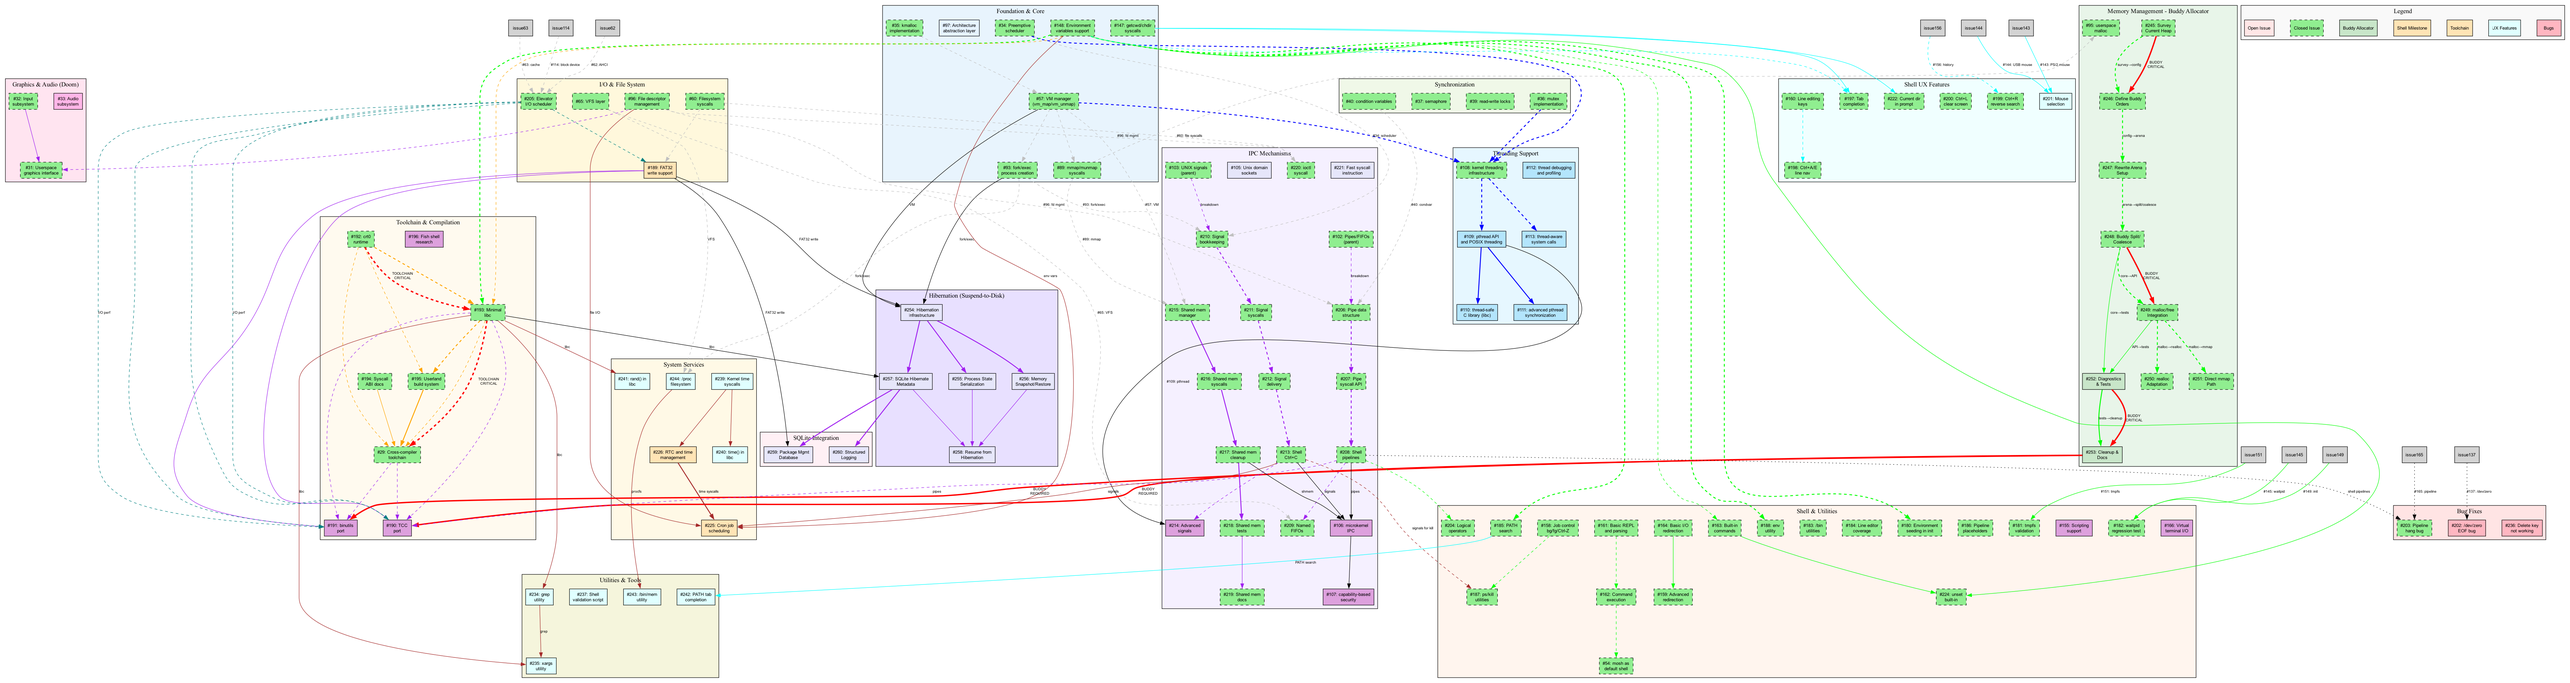
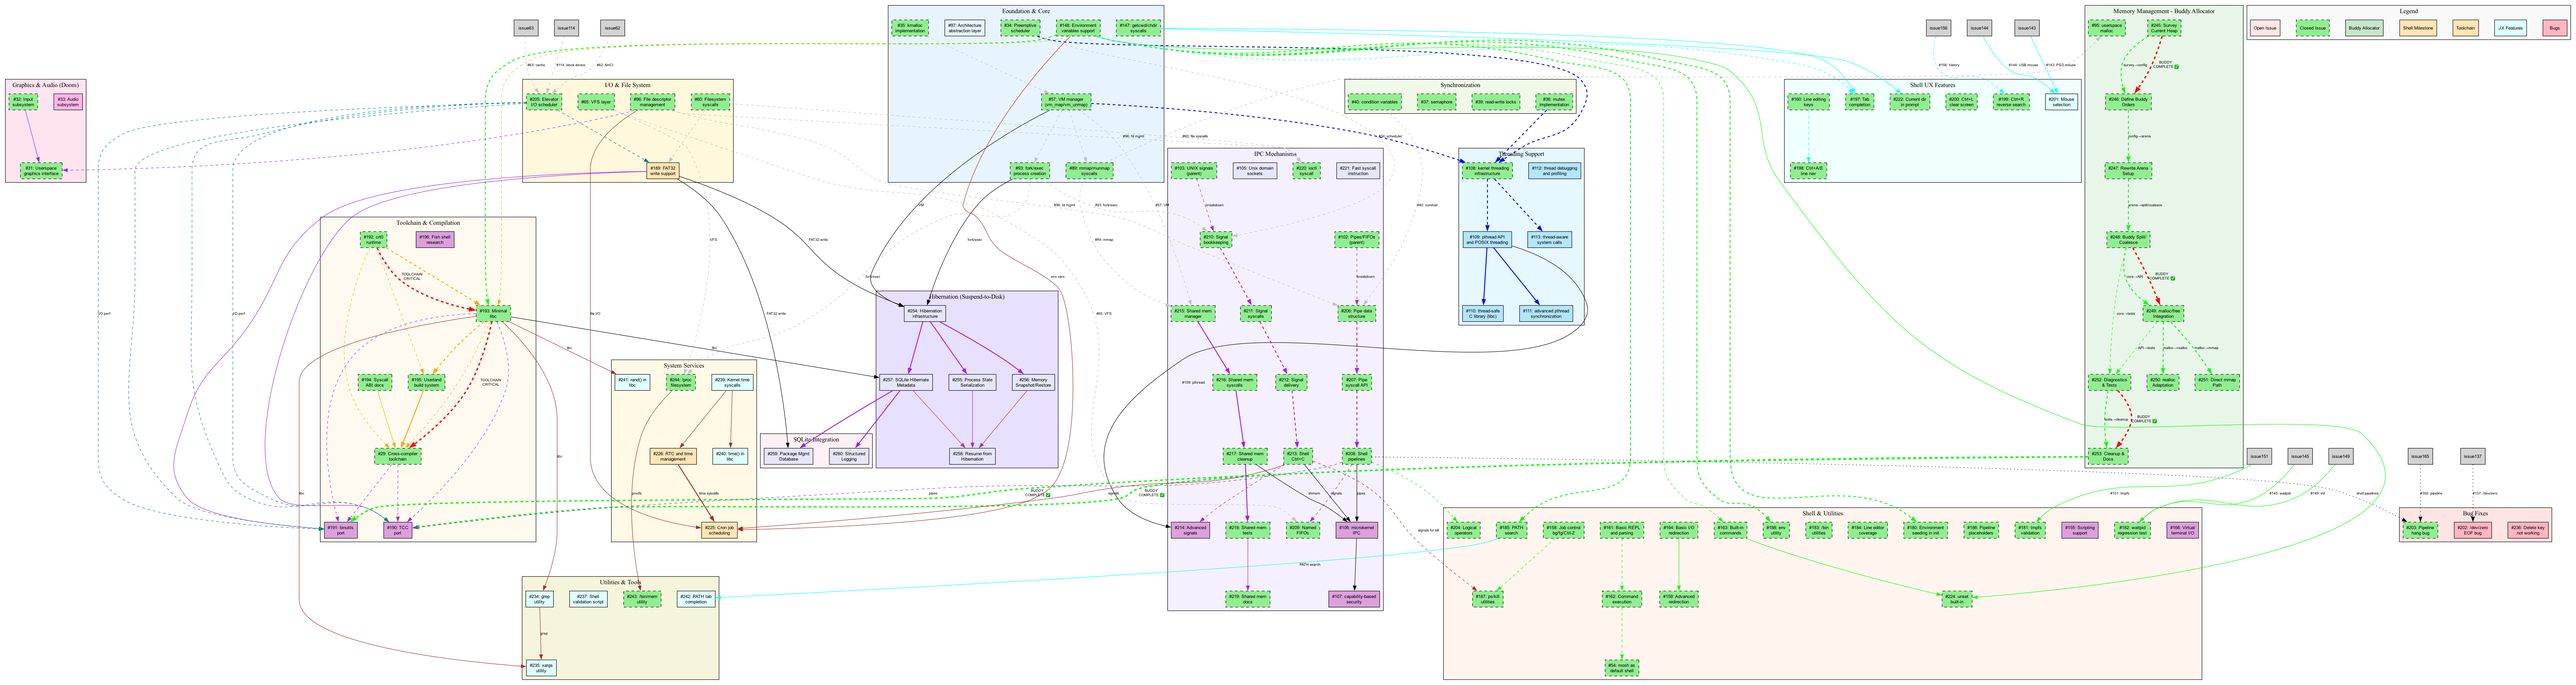
Updated the documentation

diff --git a/README.md b/README.md
@@ -40,14 +40,14 @@ MeniOS has made significant progress with core kernel functionality now solidly 
 - **User Demo**: Kernel launches Ring 3 thread with ELF loader exercising full syscall path
 - **Memory Protection**: Kernel/user separation with per-process page tables
 
-### 🚧 **Next Major Milestones**
-With the shell shipped in v0.1.0, the focus shifts to memory management and toolchain infrastructure:
+### 🎉 **Next Major Milestones**
+With the shell shipped in v0.1.0 and Buddy Allocator complete, the focus shifts to native compilation and advanced OS capabilities:
 
-1. **Buddy Allocator Milestone** (NEW! 🔨) – Migrate userland memory allocator from first-fit to buddy allocator system (#245-#253). This provides the robust memory management foundation required by both GCC and Doom milestones. The buddy system offers power-of-2 allocation, fast split/coalesce operations, and bounded fragmentation—critical for complex applications like compilers and game engines.
+1. **GCC Toolchain Milestone** (UNBLOCKED! 🚀) – The Buddy Allocator foundation is now complete (#245-#253 ✅)! Ready to implement TCC port (#190) and binutils (#191). Only blocked by #189 (FAT32 write support) for native compilation output.
 
-2. **GCC Toolchain Milestone** – Complete the toolchain foundation with TCC port (#190) and binutils (#191). Both depend on Buddy Allocator completion for efficient memory handling during compilation and linking.
+2. **FAT32 Write Support** (CRITICAL PATH 📁) – Issue #189 is now the critical blocker for native compilation. Enables TCC/binutils to write compiled binaries to disk.
 
-3. **Doom Capabilities** – With robust memory management and threading support, unlock the final pieces needed to run Doom: audio subsystem (#33), advanced IPC (#105-#107), and FAT32 write support (#189).
+3. **Doom Capabilities** – With robust memory management now complete (Buddy Allocator ✅) and threading support (#108 ✅), ready to unlock the final pieces: pthread API (#109), audio subsystem (#33), advanced IPC (#105-#107), and fast syscalls (#221).
 
 ### 🆕 **Threading Support Added**
 A complete threading roadmap has been designed with 6 new issues:
@@ -140,7 +140,7 @@ Expect the log to show the `[user_demo]` messages on screen and in `com1.log`, c
 
 ### 🚧 **In Progress & Planned**
 
-#### **Critical Path: Memory Management - Buddy Allocator (Issues #245-#253)** 🔨 IN PROGRESS!
+#### **Critical Path: Memory Management - Buddy Allocator (Issues #245-#253)** 🎉 COMPLETE!
 - [x] **#245**: Survey Current Heap Implementation ✅ COMPLETE!
 - [x] **#246**: Define Buddy Allocator Orders and Configuration ✅ COMPLETE!
   - Orders 7–27 (128 B–128 MiB), 128 MiB arenas, 21 freelists
@@ -154,19 +154,21 @@ Expect the log to show the `[user_demo]` messages on screen and in `com1.log`, c
   - In-place expansion via buddy merging, proper splitting on shrink
 - [x] **#251**: Update Direct mmap Path for Large Allocations ✅ COMPLETE!
   - Handles large allocations and unusual alignments (posix_memalign, etc.)
-- [ ] **#252**: Add Buddy Allocator Diagnostics and Tests
-- [ ] **#253**: Cleanup and Document Buddy Allocator Migration
+- [x] **#252**: Add Buddy Allocator Diagnostics and Tests ✅ COMPLETE!
+  - Comprehensive regression tests and `menios_malloc_stats()` diagnostics
+- [x] **#253**: Cleanup and Document Buddy Allocator Migration ✅ COMPLETE!
+  - Legacy first-fit code removed, buddy design fully documented
 
-**Status**: 7/9 complete (77.8%) - Core allocator complete, testing and cleanup remain!
+**Status**: 9/9 complete (100%) 🎉 - MILESTONE COMPLETE! Unblocks GCC and Doom milestones!
 
-#### **Toolchain (Issues #29, #192-#195)** 🚀 Core Complete, Blocked on Buddy!
+#### **Toolchain (Issues #29, #192-#195)** 🚀 Core Complete, Ready for Native Compilation!
 - [x] **#192**: crt0 runtime startup code ✅ COMPLETE!
 - [x] **#193**: Minimal userland libc (syscalls, strings, memory, stdio) ✅ COMPLETE!
 - [x] **#194**: Syscall ABI documentation ✅ COMPLETE!
 - [x] **#195**: Userland build system ✅ COMPLETE!
 - [x] **#29**: Cross-compiler toolchain integration ✅ COMPLETE!
-- [ ] **#190**: TCC port (blocked on Buddy Allocator completion)
-- [ ] **#191**: binutils port (blocked on Buddy Allocator completion)
+- [ ] **#190**: TCC port (Buddy ✅ UNBLOCKED! Only needs #189 FAT32 writes)
+- [ ] **#191**: binutils port (Buddy ✅ UNBLOCKED! Only needs #189 FAT32 writes)
 
 #### **Shell Milestone (Issues #180-#188)** 🎯 9/9 Complete!
 - [x] **Environment**: Environment variables (#148) ✅, seeding (#180) ✅, PATH search (#185) ✅
@@ -211,10 +213,10 @@ Remaining major components for Doom:
 
 See [`road_to_doom.md`](docs/road/road_to_doom.md) for the complete roadmap and [`tasks.json`](tasks.json) for detailed task tracking.
 
-**📊 Progress Assessment**: With **49 issues completed across 70 total** (70.0%), meniOS is making phenomenal progress! Major recent completions include:
+**📊 Progress Assessment**: With **51 issues completed across 70 total** (72.9%), meniOS is making phenomenal progress! Major recent completions include:
 - ✅ **Shell Milestone**: 27/27 complete (100%)—v0.1.0 ships the full interactive shell experience! 🎉
 - ✅ **Toolchain Core**: 5/8 complete (62.5%)—crt0 (#192) ✅, libc (#193) ✅, ABI docs (#194) ✅, build system (#195) ✅, cross-compiler (#29) ✅
-- 🔨 **Buddy Allocator**: 7/9 complete (77.8%)—survey, design, arena setup, core algorithms, malloc/free, realloc, and direct mmap (#245-#251 ✅) done, critical foundation for GCC and Doom
+- 🎉 **Buddy Allocator**: 9/9 complete (100%)—MILESTONE COMPLETE! Power-of-2 allocation, comprehensive regression tests, diagnostics, legacy code removed (#245-#253 ✅)
 - ✅ **Synchronization**: All primitives complete! (#36, #37, #39, #40) - 4/4 done!
 - ✅ **Shell UX**: Tab completion (#197) ✅, History (#156) ✅, Ctrl+A/E (#198) ✅, Ctrl+L (#200) ✅, Ctrl+R (#199) ✅, Job control (#158) ✅, pwd prompt (#222) ✅!
 - ✅ **Threading Foundation**: Kernel threading (#108) - ready for pthread!
@@ -224,13 +226,13 @@ See [`road_to_doom.md`](docs/road/road_to_doom.md) for the complete roadmap and 
 - ✅ **Performance**: I/O scheduler (#205) ✅
 - ✅ **Memory**: Userspace allocator (#95) ✅
 
-**The critical path forward** is the **Buddy Allocator migration** (#245-#253), which unblocks both GCC native compilation (#190, #191) and Doom's memory-intensive workloads!
+**The critical path forward** is now **FAT32 write support** (#189), which unblocks GCC native compilation (#190, #191)!
 
 **🎯 Milestone Status**:
 - 🎉 **Mosh** (Shell): 27/27 complete (100%) - v0.1.0 shipped!
-- 🔨 **Buddy Allocator** (Memory): 7/9 complete (77.8%) - Core allocator done, testing/cleanup next (#252/#253)!
-- 🚀 **GCC** (Toolchain): 5/8 complete (62.5%) - core done, native compilation blocked on Buddy
-- 🎮 **Doom** (Full OS): 10/26 complete (38.5%) - blocked on Buddy for game engine memory
+- 🎉 **Buddy Allocator** (Memory): 9/9 complete (100%) - COMPLETE! Unblocks GCC and Doom!
+- 🚀 **GCC** (Toolchain): 5/8 complete (62.5%) - core done, #190/#191 unblocked, only needs #189 FAT32 writes!
+- 🎮 **Doom** (Full OS): 10/26 complete (38.5%) - Buddy dependency met ✅, threading/IPC ready to start!
 
 ## Architecture Overview
 
@@ -320,10 +322,11 @@ We welcome contributions from developers of all skill levels! 🚀
 
 - **New Contributors**: Start with our [Contributing Guide](CONTRIBUTING.md) for a complete development workflow
 - **Find Tasks**: Check [GitHub Issues](https://github.com/pbalduino/menios/issues) or browse [`tasks.json`](tasks.json) for detailed task tracking
-- **High Priority - Ready Now** (3 issues ready to start!):
-  - **🔨 Buddy Allocator** (CRITICAL): #252 (diagnostics and tests) - ready!
+- **High Priority - Ready Now** (5 issues ready to start!):
+  - **🚀 GCC Native Compilation** (UNBLOCKED! 🎉): #190 (TCC port), #191 (binutils port) - Buddy complete ✅, only needs #189 FAT32 writes
+  - **📁 Critical Blocker**: #189 (FAT32 write support) - blocks native compilation!
   - **🧵 Threading**: #109 (pthread API), #221 (fast syscalls - 3-5x speedup!)
-- **Critical Path**: Buddy Allocator milestone (#245-#253) is 77.8% done - Core allocator complete ✅✅✅✅✅✅✅, testing and docs next!
+- **Milestone Achievement**: Buddy Allocator (#245-#253) is 100% COMPLETE! 🎉 Unblocks GCC and Doom milestones!
 - **Report Issues**: Use our issue templates to report bugs or request features
 - **Security Issues**: Please review our [Security Policy](SECURITY.md) for responsible disclosure
 - **Code Style**: Follow the guidelines in [`CODING.md`](CODING.md)

diff --git a/docs/MILESTONES.md b/docs/MILESTONES.md
@@ -97,7 +97,7 @@ This document tracks the three major milestones for meniOS development.
 **Goal**: Migrate userland allocator from first-fit to buddy allocator system
 **GitHub Milestone**: [Buddy Allocator](https://github.com/pbalduino/menios/milestone/4)
 
-**Status**: 7/9 complete (77.8%)
+**Status**: 9/9 complete (100%) 🎉
 
 **Assigned Issues**:
 - [x] #245 - Survey Current Heap Implementation ✅
@@ -107,10 +107,10 @@ This document tracks the three major milestones for meniOS development.
 - [x] #249 - Integrate Buddy Allocator with malloc/free ✅
 - [x] #250 - Adapt realloc/reallocarray for Buddy Allocator ✅
 - [x] #251 - Update Direct mmap Path for Large Allocations ✅
-- [x] #252 - Add Buddy Allocator Diagnostics and Tests
-- [x] #253 - Cleanup and Document Buddy Allocator Migration
+- [x] #252 - Add Buddy Allocator Diagnostics and Tests ✅
+- [x] #253 - Cleanup and Document Buddy Allocator Migration ✅
 
-**Critical Path**: #245 → #246 → #247 → #248 → #249 → #250/#251 → #252 → #253
+**Critical Path**: #245 → #246 → #247 → #248 → #249 → #250/#251 → #252 → #253 ✅
 
 **Dependencies**:
 - #246 depends on #245 (survey)
@@ -122,9 +122,9 @@ This document tracks the three major milestones for meniOS development.
 - #252 depends on #248, #249 (core operations + API)
 - #253 depends on #252 (testing)
 
-**Progress**: Survey (#245), configuration (#246), arena setup (#247), and buddy split/coalesce core (#248) are complete. New arenas seed order-27 root blocks, the buddy freelists can split on demand, and coalescing rebuilds higher-order blocks correctly (covered by the new host regression tests). Each arena is 128 MiB and we currently grow without a hard cap—the allocator keeps mapping arenas until kernel VM resources or physical memory run out. Buddy diagnostics now expose `menios_malloc_stats()` so tests can assert arena/direct counters without spelunking logs. Next actions: expand diagnostics/tests (#252) and wrap up documentation cleanup (#253). Both GCC and Doom milestones depend on this migration for reliable heap behaviour.
+**Progress**: Buddy allocator migration is fully complete. Userland now allocates from 128 MiB arenas managed by per-order freelists, split/coalesce is covered by regression tests, diagnostics expose allocator health via `/proc/meminfo` and `menios_malloc_stats()`, and documentation cleanup is finished. This foundation unblocks the GCC and Doom milestones by delivering predictable heap behaviour under heavy workloads.
 
-**Estimated Effort**: 11-17 days remaining (11-15 days complete)
+**Estimated Effort**: ✅ Finished (actual delivery matched the high-end estimate)
 
 ---
 
@@ -252,45 +252,50 @@ This document tracks the three major milestones for meniOS development.
 ## 📈 Overall Progress
 
 - **Total Issues Across Milestones**: 70 issues
-- **Completed**: 49 issues (70.0%)
-- **In Progress**: 21 issues
-- **Ready to Start**: 3 issues (no dependencies: #109, #221; dependencies met: #252)
-- **Next Up**: #252 (Buddy Allocator diagnostics and tests) - ready to start!
+- **Completed**: 51 issues (72.9%)
+- **In Progress**: 19 issues
+- **Ready to Start**: 5 issues (no dependencies: #109, #221, #190, #191; unblocked by Buddy completion)
+- **Next Up**: TCC/binutils ports (#190, #191) - Buddy Allocator complete, ready for native compilation!
 
 ## 🚀 Immediate Next Steps
 
-### Ready to Start Now (No Dependencies):
-1. **Doom Milestone**:
-   - #109 - pthread API
-   - #221 - Fast syscall instruction
+### 🎉 Buddy Allocator Milestone Complete!
+The Buddy Allocator milestone is now 100% complete, unblocking both GCC and Doom milestones!
 
-### Next in Critical Path (Dependencies Met):
-1. **Buddy Allocator Milestone**:
-   - #252 - Add Buddy Allocator Diagnostics and Tests (depends on #248, #249 ✅) - Ready!
-   - After #252, #253 (cleanup/docs) will be unblocked and milestone will be complete!
+### Ready to Start Now (Dependencies Met):
+1. **GCC Milestone** (UNBLOCKED! 🚀):
+   - #190 - TCC port (Buddy Allocator ✅, needs #189 FAT32 writes)
+   - #191 - binutils port (Buddy Allocator ✅, needs #189 FAT32 writes)
+
+2. **Doom Milestone** (Partial unblock):
+   - #109 - pthread API (no dependencies)
+   - #221 - Fast syscall instruction (no dependencies)
+
+3. **Critical Blocker**:
+   - #189 - FAT32 write support (blocks #190, #191 for native compilation)
 
 ## 📝 Notes
 
 ### Parallel Development
 Many issues can be worked on in parallel:
-- **Buddy Allocator**: Linear dependency chain, but #250/#251 can be parallel
-- **GCC**: Blocked on Buddy Allocator completion
+- **Buddy Allocator**: ✅ COMPLETE! (100%)
+- **GCC**: Unblocked! #190/#191 can start now (blocked only by #189 FAT32 writes)
 - **Doom Threading**: #109, #112, #113 are independent (can start now!)
 - **Doom IPC**: Different IPC mechanisms can progress in parallel
 - **Mosh UX**: All features complete! ✅
 
 ### Critical Dependencies
-- **Buddy Allocator milestone** is foundational - required by both GCC and Doom
-- **GCC milestone** depends on Buddy Allocator for native compilation
-- **Doom milestone** depends on Buddy Allocator for game engine memory management
-- **Mosh milestone** provides the development environment for debugging ✅
+- **Buddy Allocator milestone** ✅ COMPLETE - Foundation now ready for both GCC and Doom!
+- **GCC milestone** - Buddy dependency met ✅, now blocked only by #189 (FAT32 writes)
+- **Doom milestone** - Buddy dependency met ✅, can leverage efficient heap for game engine
+- **Mosh milestone** ✅ COMPLETE - Development environment ready!
 
 ### Completion Order
 Recommended completion order for maximum impact:
-1. **Mosh** - Provides usable development environment (100% complete) 🎉
-2. **Buddy Allocator** - Foundation for complex apps (77.8% complete, core allocator done!) 🔨
-3. **GCC** - Enables native development and compilation (62.5% complete, blocked on Buddy) 🚀
-4. **Doom** - Demonstrates full OS capabilities (38.5% complete, some work can start now)
+1. **Mosh** ✅ COMPLETE (100%) - Development environment ready! 🎉
+2. **Buddy Allocator** ✅ COMPLETE (100%) - Foundation for complex apps ready! 🎉
+3. **GCC** - Enables native development (62.5% complete, unblocked! Only needs #189) 🚀
+4. **Doom** - Demonstrates full OS capabilities (38.5% complete, threading/IPC ready to start)
 
 ### Recent Changes
 - **2025-10-08**: Expanded Mosh milestone from 10 to 30 issues to better track all shell work
@@ -353,6 +358,11 @@ Recommended completion order for maximum impact:
   - realloc() attempts in-place expansion via buddy merging, splits on shrinking
 - **2025-10-14**: Closed #251 (Direct mmap Path) ✅ - Buddy Allocator milestone 77.8% complete!
   - Handles large allocations and unusual alignments (posix_memalign, memalign, valloc, pvalloc)
+- **2025-10-14**: Closed #252 (Buddy Allocator Diagnostics and Tests) ✅ - Buddy Allocator milestone 88.9% complete!
+  - Added `menios_malloc_stats()` and comprehensive regression tests
+- **2025-10-14**: Closed #253 (Cleanup and Documentation) ✅ - Buddy Allocator milestone 100% COMPLETE! 🎉
+  - Legacy first-fit code removed, buddy design fully documented
+  - **MILESTONE ACHIEVEMENT**: Buddy Allocator complete! Unblocks GCC (#190, #191) and Doom milestones!
 
 ---
 
